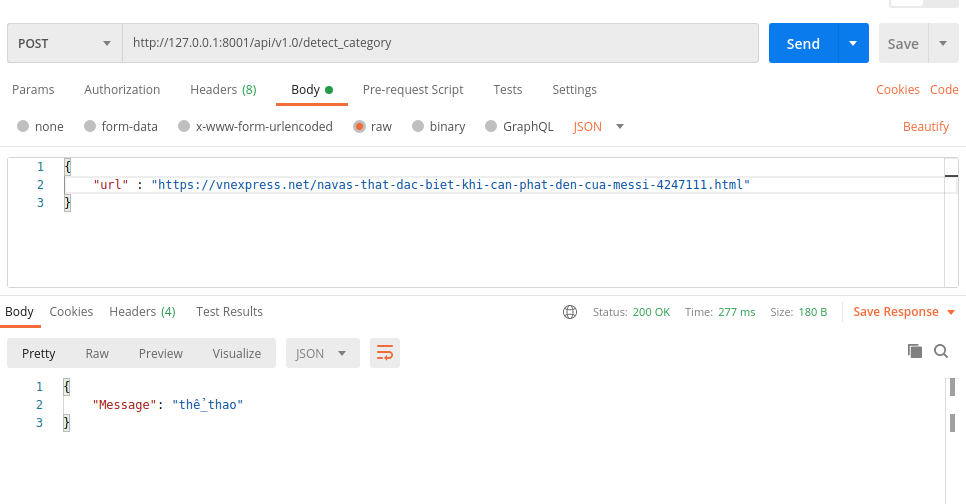
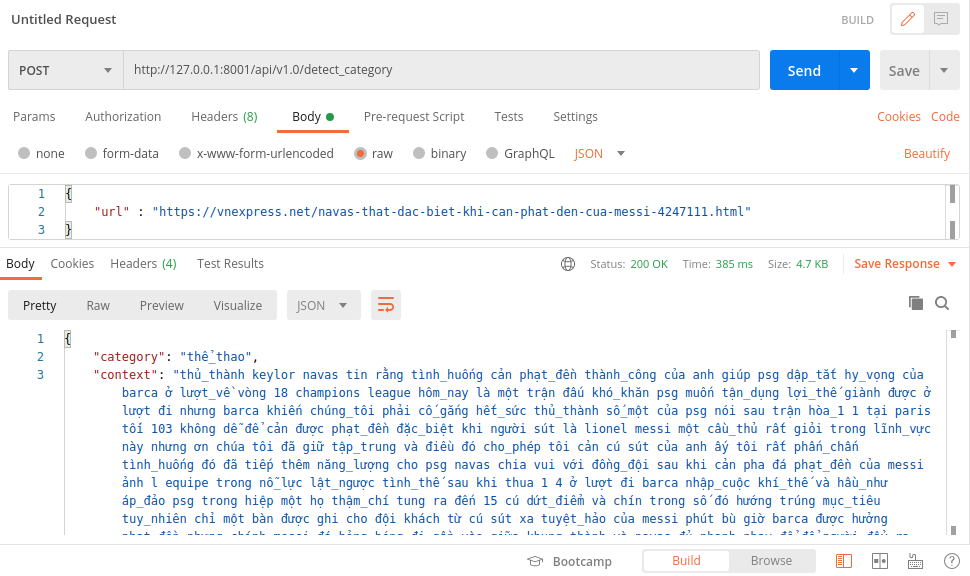
Fix format api

diff --git a/backend/Controller/detect_category.py b/backend/Controller/detect_category.py
@@ -8,6 +8,7 @@ from newspaper import Article
 class DetectCategory(Resource):
     def post(self):
         try:
+            res = {}
             url = request.json.get("url")
             article = Article(url)
             article.download()
@@ -16,7 +17,9 @@ class DetectCategory(Resource):
             document = text_preprocess(document)
             # print(document)
             label_predict_index = nb_model.predict([document])
-            return {"Message": str(label_encode[int(label_predict_index)])}
+            res["category"] = str(label_encode[int(label_predict_index)])
+            res["context"] = document
+            return res
         except Exception as exc:
             print("Error in DetectCategory", exc)
             return abort(401)
